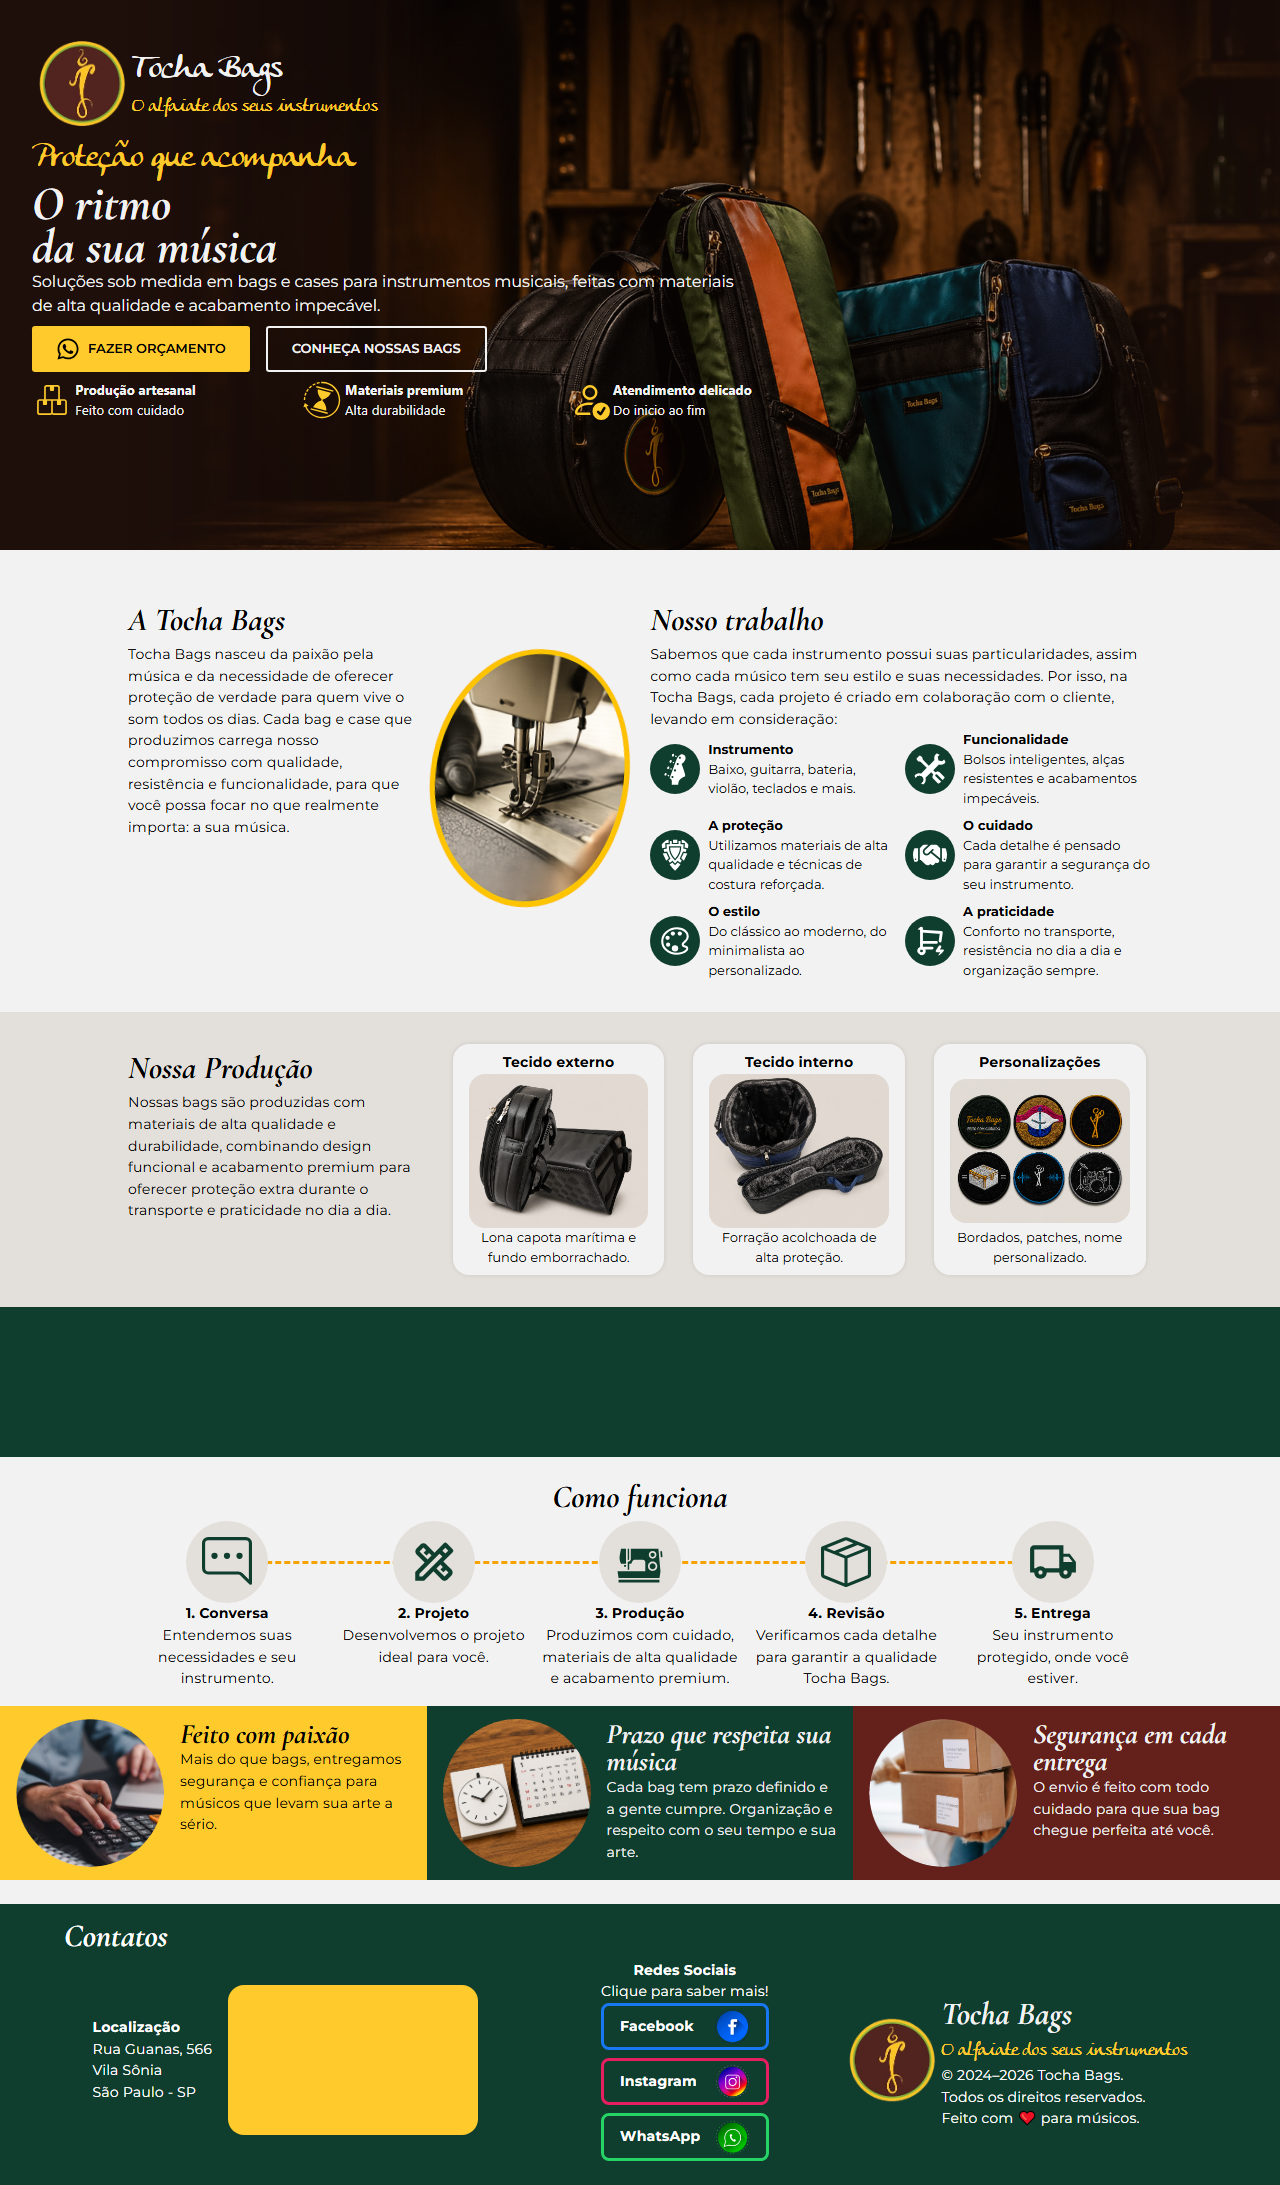
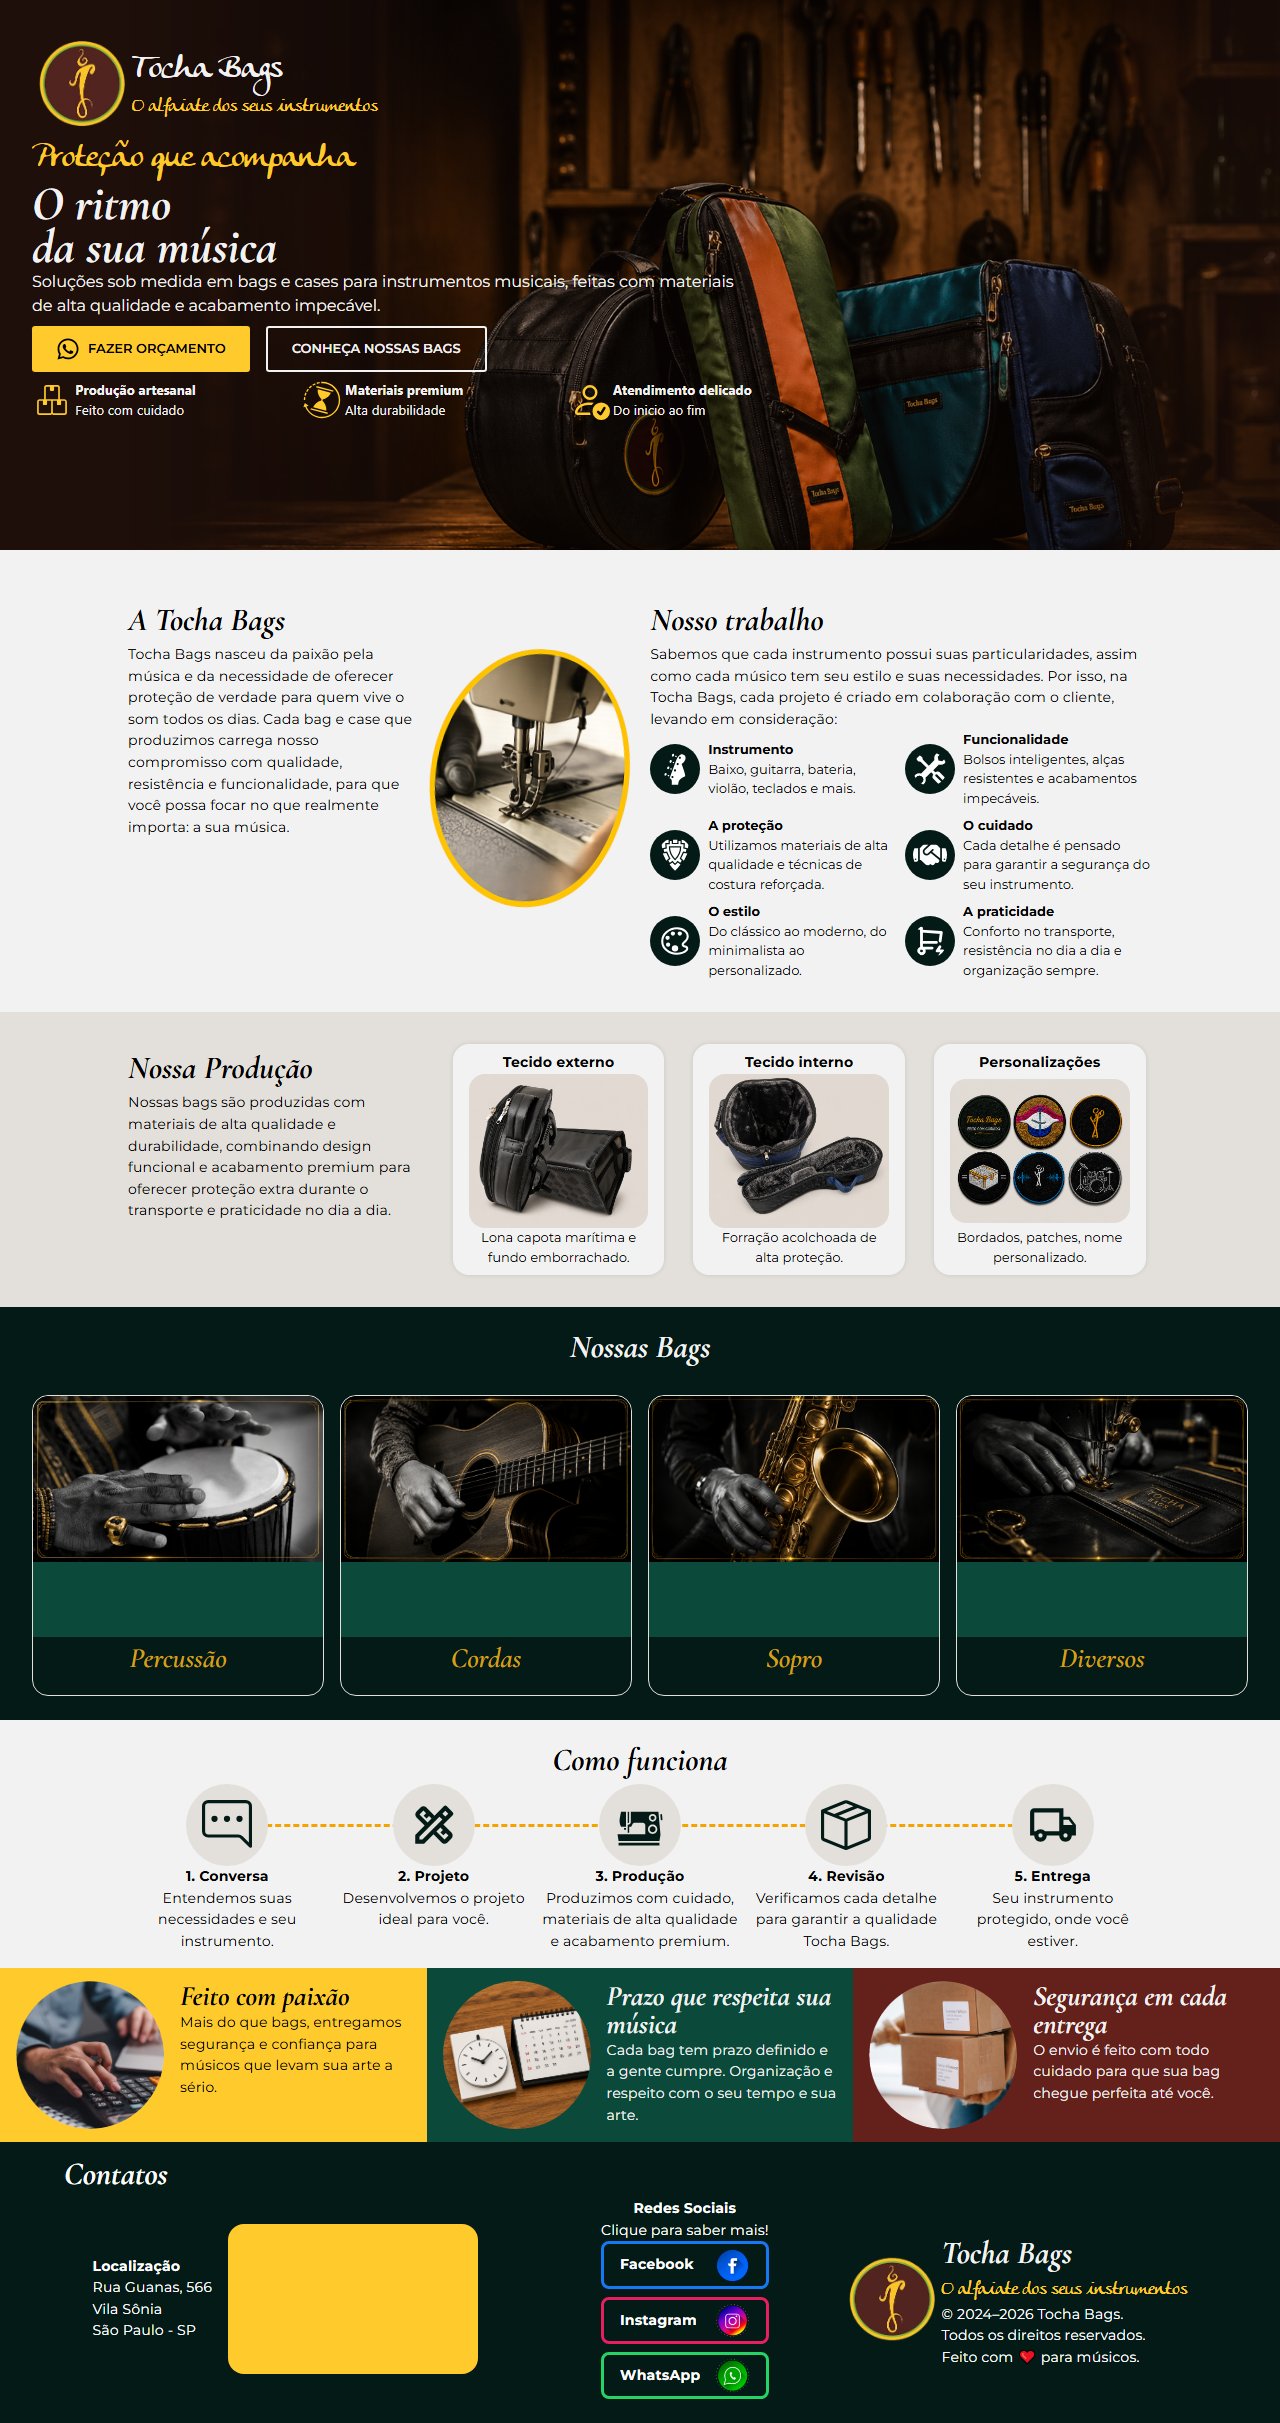
alterando a parte das bags do site

diff --git a/frontend/src/pages/bags/bags.jsx b/frontend/src/pages/bags/bags.jsx
@@ -11,25 +11,41 @@ export default function Bags() {
 
           <div className={styles.box}>
             <img src="/images/bags1.png" />
-            <div></div>
+            <div className={styles.box_icon}>
+              {/* 
+              <img src="/images/b-icon1.png" />
+              */}
+            </div>
             <p>Percussão</p>
           </div>
 
           <div className={styles.box}>
             <img src="/images/bags2.png" />
-            <div></div>
+            <div className={styles.box_icon}>
+              {/* 
+              <img src="/images/b-icon2.png" />
+              */}
+            </div>
             <p>Cordas</p>
           </div>
 
           <div className={styles.box}>
             <img src="/images/bags3.png" />
-            <div></div>
+            <div className={styles.box_icon}>
+              {/* 
+              <img src="/images/b-icon3.png" />
+              */}
+            </div>
             <p>Sopro</p>
           </div>
 
           <div className={styles.box}>
             <img src="/images/bags4.png" />
-            <div></div>
+            <div className={styles.box_icon}>
+              {/* 
+              <img src="/images/b-icon4.png" />
+              */}
+            </div>
             <p>Diversos</p>
           </div>
         </div>
@@ -38,13 +54,11 @@ export default function Bags() {
           <div className={styles.bags_content_2_box}>
             <div className={styles.box}>
               <img src="/images/bags1.png" />
-              <div></div>
               <p>Percussão</p>
             </div>
 
             <div className={styles.box}>
               <img src="/images/bags2.png" />
-              <div></div>
               <p>Cordas</p>
             </div>
           </div>
@@ -52,13 +66,11 @@ export default function Bags() {
           <div className={styles.bags_content_2_box}>
             <div className={styles.box}>
               <img src="/images/bags3.png" />
-              <div></div>
               <p>Sopro</p>
             </div>
 
             <div className={styles.box}>
               <img src="/images/bags4.png" />
-              <div></div>
               <p>Diversos</p>
             </div>
           </div>

diff --git a/frontend/src/pages/bags/bags.module.css b/frontend/src/pages/bags/bags.module.css
@@ -28,19 +28,51 @@
   border-top-right-radius: 1rem;
 }
 
-.bags_content_1 .box {
-  border: .1rem solid var(--gray);
+.bags_content_1 .box 
+,.bags_content_2 .box{
+  background-color: black;
+  border: .1rem solid var(--color-gold);
   border-radius: 1rem;
   display: flex;
   flex-direction: column;
   align-items: center;
 }
 
+/*
 .bags_content_1 .box div {
   width: 100%;
   height: 75px;
   background-color: var(--color-green-light);
 }
+*/
+/*
+.bags_content_1 .box .box_icon {
+  width: 65%;
+  margin-top: -4rem;
+  height: 5.5rem;
+}
+
+.bags_content_1 .box .box_icon div{
+  position: relative;
+}
+
+.bags_content_1 .box .box_icon div{
+  background-color: black;
+  border-radius: 100%;
+  border: 1.8px solid var(--color-gold);
+  width: 65px;
+  height: 65px;
+  position: absolute;
+  left: 50%;
+  transform: translateX(-50%);
+  margin-top: 1.8rem;
+}
+
+.bags_content_1 .box .box_icon img{
+  position: absolute;
+  width: 150%;
+}
+*/
 
 .bags_content_1 .box p {
   font-family: var(--font-text2);
@@ -48,7 +80,7 @@
   color: var(--color-gold);
   font-size: 1.75rem;
   font-weight: 600;
-  margin-bottom: 1rem;
+  margin-bottom: .5rem;
 }
 
 @media (max-width: 860px) {
@@ -81,7 +113,7 @@
   }
 
   .bags_content_2 .box {
-    border: .1rem solid var(--gray);
+    border: .1rem solid var(--color-gold);
     border-radius: 1rem;
     display: flex;
     flex-direction: column;
@@ -100,7 +132,7 @@
     color: var(--color-gold);
     font-size: 1.75rem;
     font-weight: 600;
-    margin-bottom: 1rem;
+    margin-bottom: .5rem;
   }
 }
 
